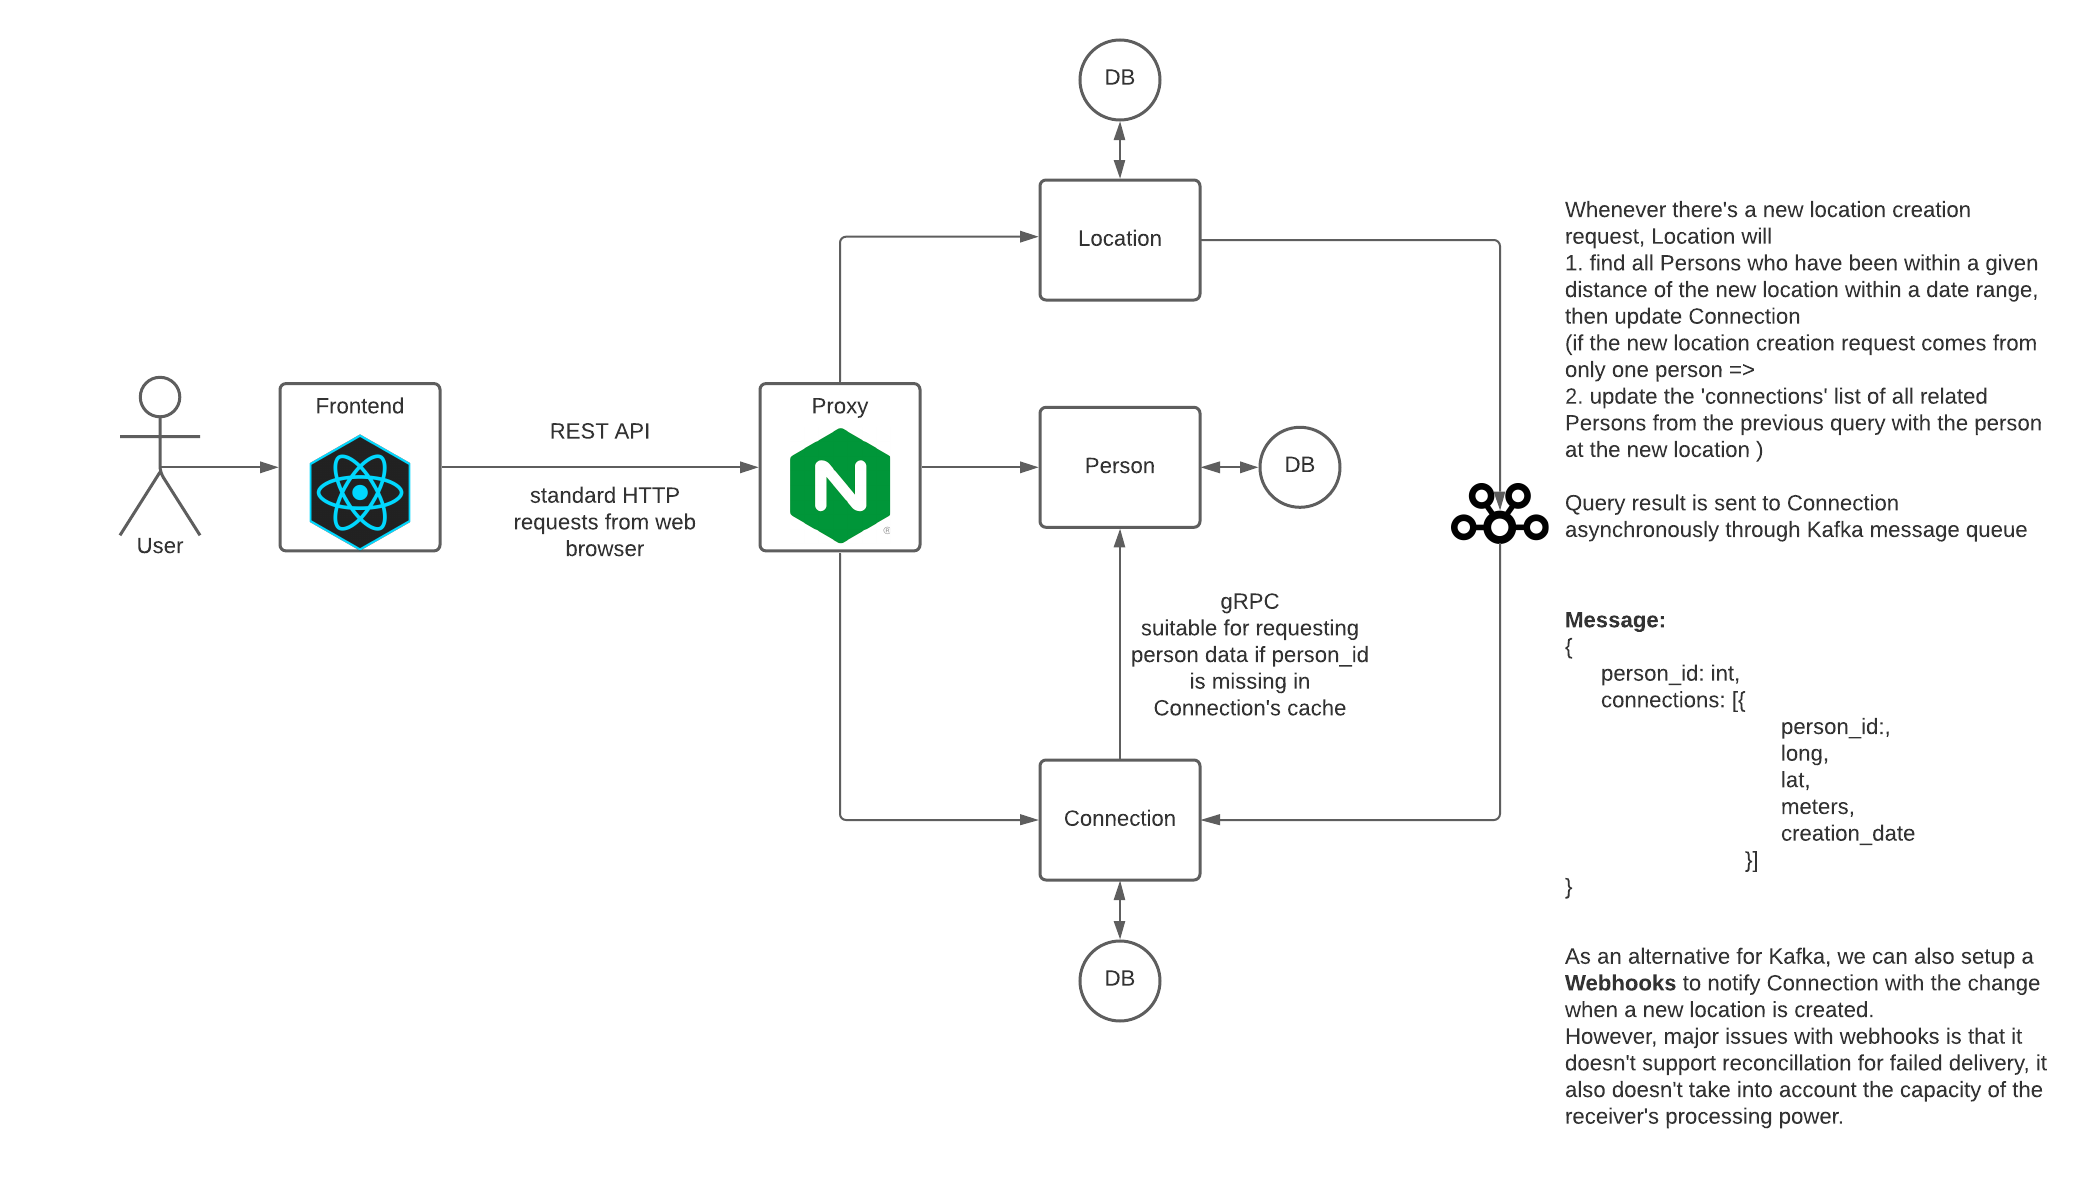
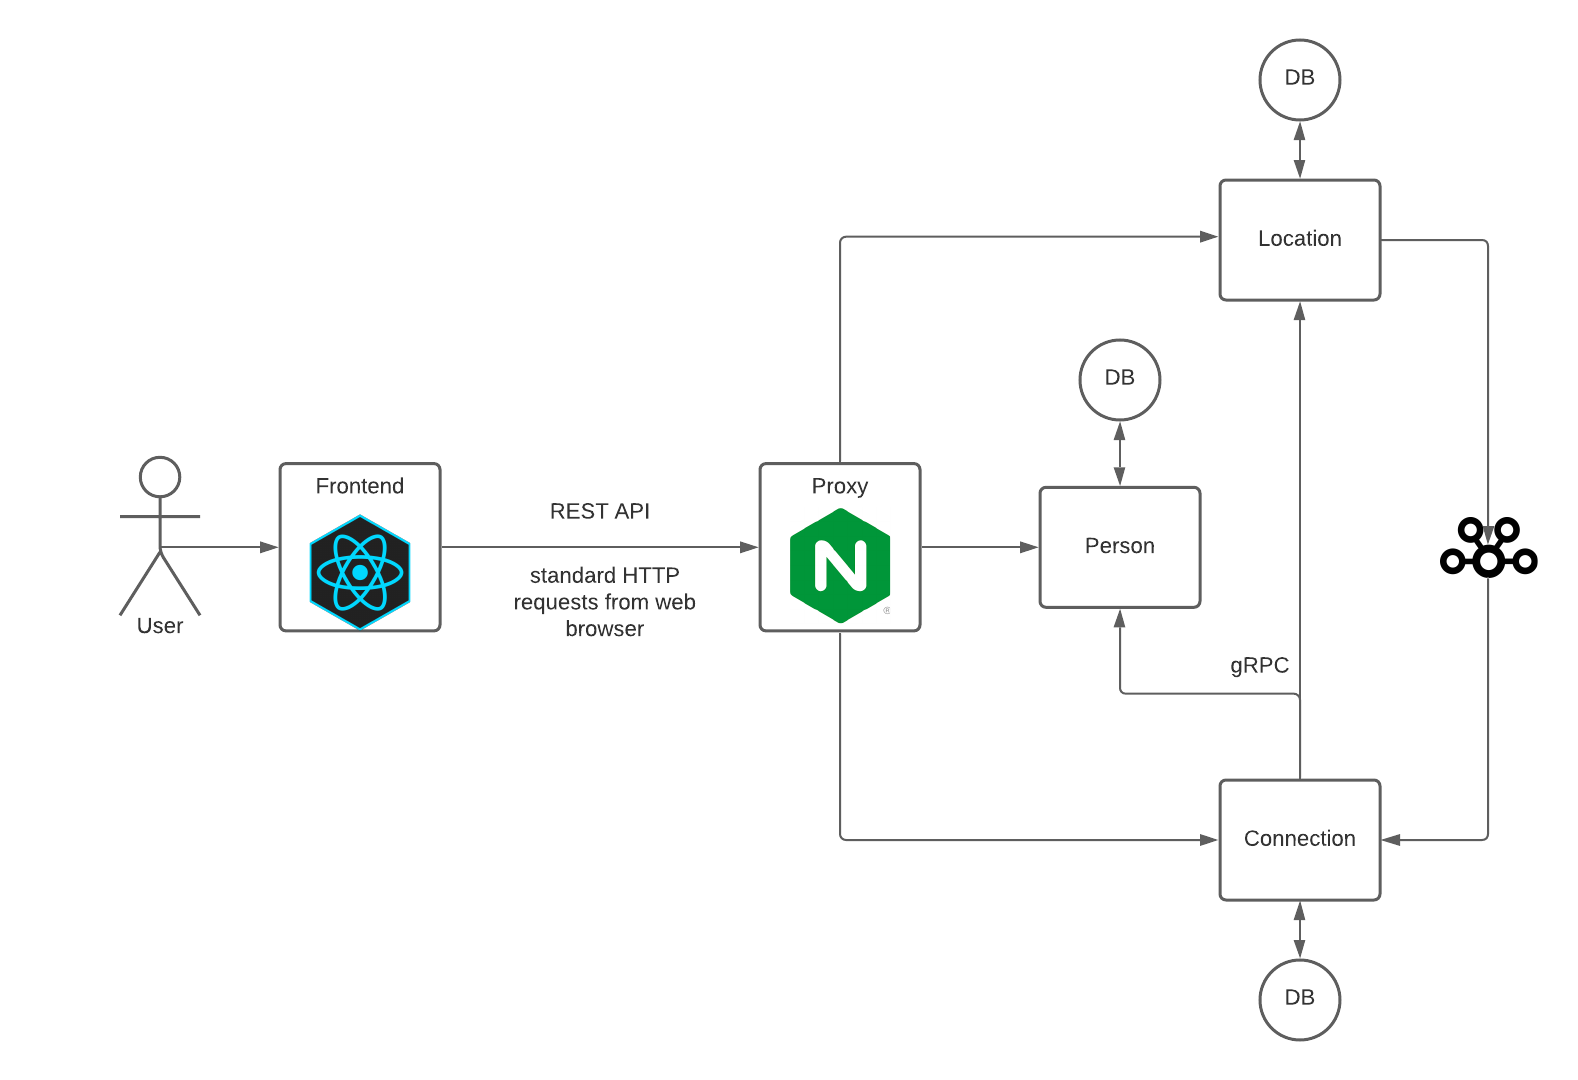
Add architecture_design diagram

diff --git a/modules/api-connection/person_client.py b/modules/api-connection/person_client.py
@@ -1,0 +1,16 @@
+import logging
+import asyncio
+import grpc
+
+import person_pb2
+import person_pb2_grpc
+
+# NOTE(gRPC Python Team): .close() is possible on a channel and should be
+# used in circumstances in which the with statement does not fit the needs
+# of the code.
+async with grpc.aio.insecure_channel('localhost:50051') as channel:
+    stub = person_pb2_grpc.GreeterStub(channel)
+    response = await stub.Get(person_pb2.PersonId(id='you'))
+print("Greeter client received: " + response.message)
+
+
